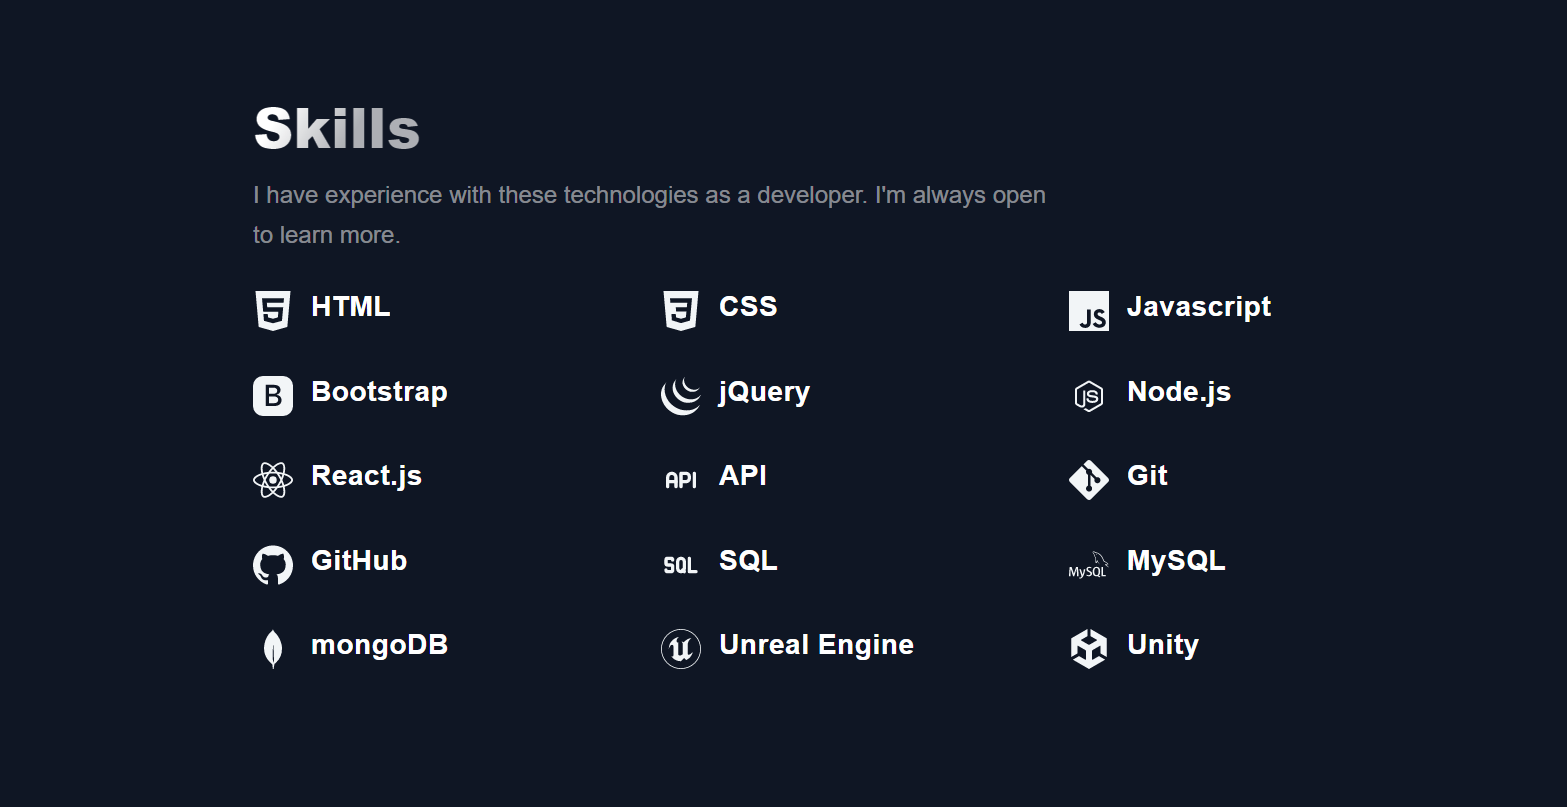
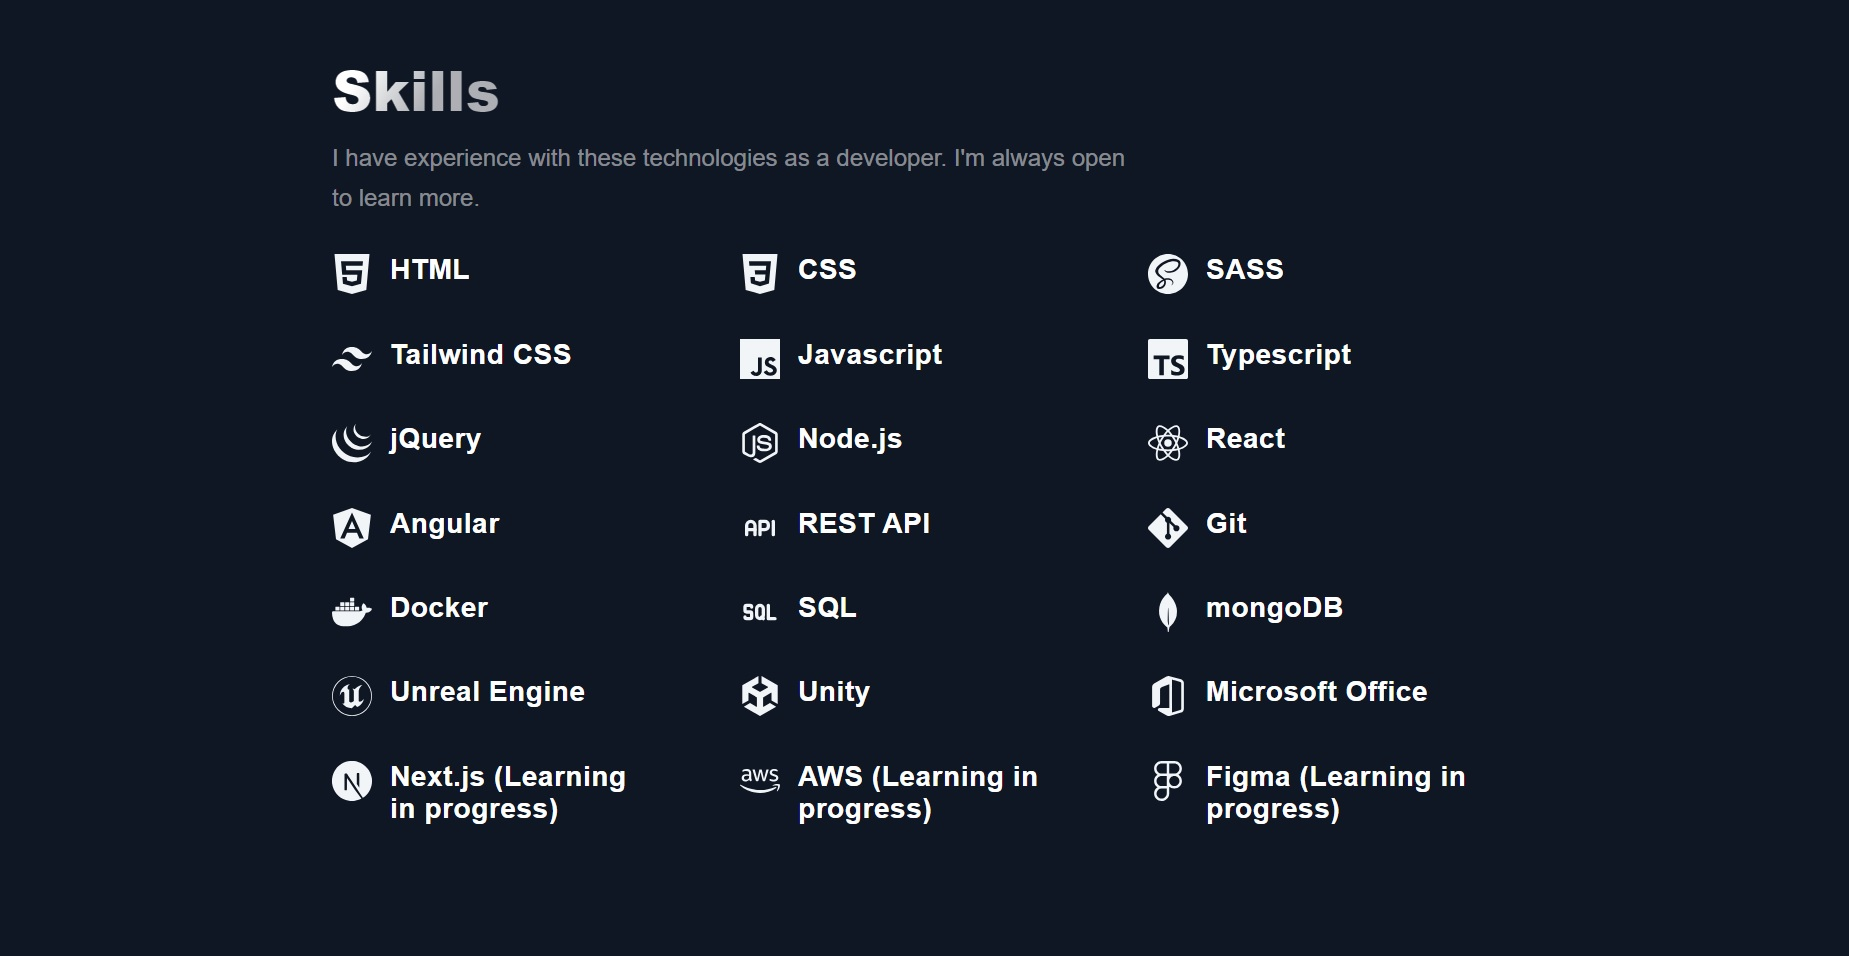
Upgrade 08/08
Pizza Time Webstore added to porfolio

diff --git a/src/components/Skills/SkillData.js b/src/components/Skills/SkillData.js
@@ -1,4 +1,4 @@
-import { SiHtml5, SiCss3, SiJavascript, SiTypescript, SiJquery, SiNodedotjs, SiReact,  SiAngular, SiGit, SiDocker, SiMongodb, SiUnrealengine, SiUnity, SiMicrosoftoffice, SiAmazonaws, SiFigma, SiNextdotjs} from "react-icons/si";
+import { SiHtml5, SiCss3, SiSass, SiTailwindcss, SiJavascript, SiTypescript, SiJquery, SiNodedotjs, SiReact,  SiAngular, SiGit, SiDocker, SiMongodb, SiUnrealengine, SiUnity, SiMicrosoftoffice, SiAmazonaws, SiFigma, SiNextdotjs} from "react-icons/si";
 import { TbApi, TbSql } from "react-icons/tb";
 
 export const SkillData = [
@@ -11,6 +11,16 @@ export const SkillData = [
     slug: "css",
     Component: SiCss3,
     title: "CSS",
+  }, 
+  {
+    slug: "sass",
+    Component: SiSass,
+    title: "SASS",
+  },
+  {
+    slug: "tailwindcss",
+    Component: SiTailwindcss,
+    title: "Tailwind CSS",
   },
   {
     slug: "javascript",

diff --git a/src/components/Projects/ProjectDatas.js b/src/components/Projects/ProjectDatas.js
@@ -1,3 +1,4 @@
+
 export const projects = [
   {
     title: 'Portfolio Website',
@@ -5,7 +6,14 @@ export const projects = [
     image: 'https://raw.githubusercontent.com/istvanszasz99/portfolio/main/public/images/portfolio.jpg',
     tags: ['HTML', 'CSS', 'Javascript', 'React'],
     source: 'https://github.com/istvanszasz99/portfolio',
-    visit: '',
     id: 1,
+  },
+  {
+    title: 'Pizza Time Webstore',
+    description: "Webstore that created for practice and expanding my portfolio",
+    image: 'https://raw.githubusercontent.com/istvanszasz99/portfolio/main/public/images/PizzaBanner.jpg',
+    tags: ['HTML', 'Javascript', 'React', 'Tailwind CSS', 'Typescript'],
+    source: 'https://github.com/istvanszasz99/WebstoreProject',
+    id: 2,
   },
 ];

diff --git a/src/components/Projects/Projects.js b/src/components/Projects/Projects.js
@@ -22,7 +22,7 @@ const Projects = () => (
               </TagList>
             </div>
             <UtilityList>
-              <ExternalLinks href={p.source}>Source Code</ExternalLinks>
+              <ExternalLinks href={p.source}>Source Code</ExternalLinks>     
             </UtilityList>
           </BlogCard>
         );
